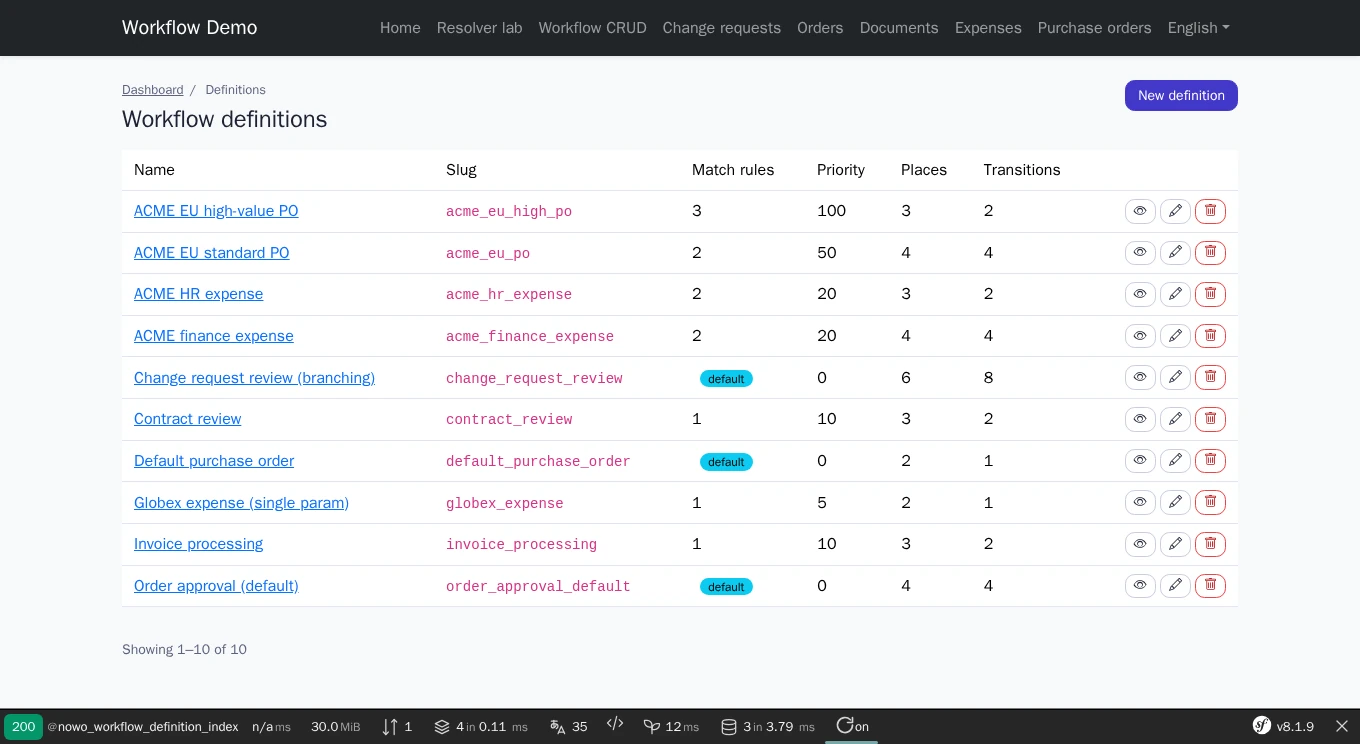
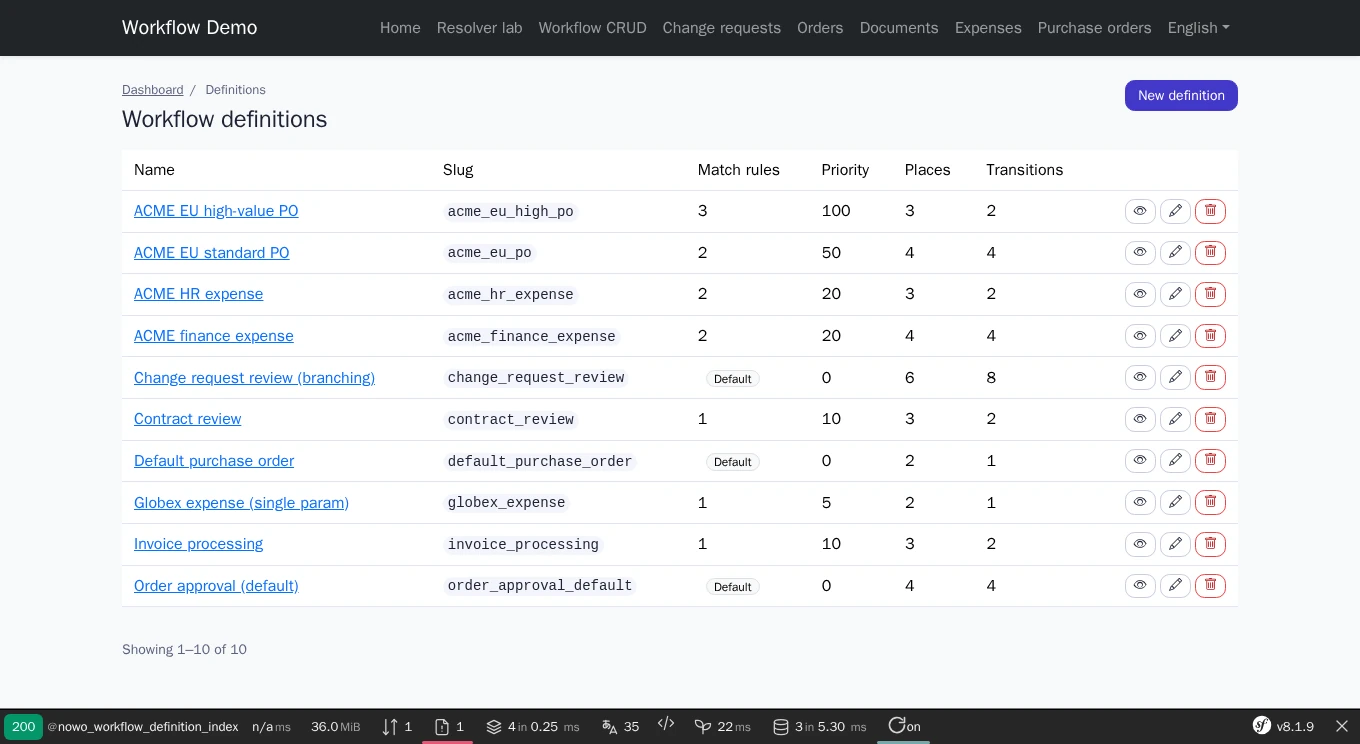
docs: diagram e2e, changelog and re-captured demo screenshots (REQ-DEMO-013)

diff --git a/demo/symfony8/e2e/tests/demo.spec.ts b/demo/symfony8/e2e/tests/demo.spec.ts
@@ -68,6 +68,50 @@ test.describe('workflow admin (UiKit page contract)', () => {
     expect(errors).toEqual([]);
   });
 
+  test('flow diagram: every connector ends at its own target, only true loops are listed', async ({ page }) => {
+    const errors = collectErrors(page);
+    const id = await definitionId(page, 'change_request_review');
+    await page.goto(`/workflow/definitions/${id}`);
+
+    const svg = page.getByTestId('workflow-flow-svg');
+    await expect(svg).toBeVisible();
+    await expect(svg.locator('.nowo-workflow-diagram__edge')).toHaveCount(6);
+
+    // Each connector ends at the left edge, vertical middle, of the place box it names in data-to.
+    const misses = await svg.evaluate((root) => {
+      const out: string[] = [];
+      root.querySelectorAll<SVGPathElement>('.nowo-workflow-diagram__edge').forEach((path) => {
+        const end = path.getPointAtLength(path.getTotalLength());
+        const box = root.querySelector<SVGForeignObjectElement>(`.nowo-workflow-diagram__box[data-place="${path.dataset.to}"]`)!;
+        const x = box.x.baseVal.value;
+        const middle = box.y.baseVal.value + box.height.baseVal.value / 2;
+        if (Math.abs(end.x - x) > 0.5 || Math.abs(end.y - middle) > 0.5) {
+          out.push(`${path.dataset.from} → ${path.dataset.to}`);
+        }
+      });
+
+      return out;
+    });
+    expect(misses).toEqual([]);
+
+    const label = (text: string) => svg.locator('.nowo-workflow-diagram__label-box').filter({ has: page.getByRole('button', { name: text, exact: true }) });
+    await expect(label('Submit for review')).toHaveAttribute('data-to', 'review');
+    await expect(label('Approve')).toHaveAttribute('data-to', 'approved');
+    await expect(label('Request changes')).toHaveAttribute('data-to', 'changes_needed');
+
+    const loops = page.getByTestId('workflow-flow-back-edges').getByRole('button');
+    await expect(loops).toHaveCount(2);
+    await expect(loops).toContainText(['Resubmit', 'Reopen']);
+
+    await label('Approve').getByRole('button').hover();
+    await expect(svg.locator('.nowo-workflow-diagram__edge.is-active')).toHaveAttribute('data-to', 'approved');
+    await label('Approve').getByRole('button').click();
+    await expect(page.locator('dialog[open]')).toHaveAttribute('id', /^workflow-transition-/);
+    await page.keyboard.press('Escape');
+
+    expect(errors).toEqual([]);
+  });
+
   test('places editor: add, validate, remove and save', async ({ page }) => {
     const errors = collectErrors(page);
     const id = await definitionId(page, 'invoice_processing');

diff --git a/docs/CHANGELOG.md b/docs/CHANGELOG.md
@@ -41,6 +41,31 @@ and this project adheres to [Semantic Versioning](https://semver.org/spec/v2.0.0
 
 ## [Unreleased]
 
+### Fixed
+
+- **Flow diagram of branching definitions.** Transition labels and arrows pointed at the wrong places (e.g. "Submit
+  for review" landed on Cancelled), Cancelled was ranked next to Review, and forward edges (review → cancel →
+  cancelled) were listed under "Return / loop transitions". The new `WorkflowGraphLayout` ranks places by the longest
+  path from the initial place, classifies only true back-edges (target ranked at or before the source, found by a
+  depth-first search) as loops, orders each rank by barycentre sweeps, and draws the diagram as an SVG: one curved
+  connector per edge from its source to the middle of its own target place (long edges pass through waypoints), each
+  label on its own connector (moved along it when two labels would collide). Places and labels stay focusable
+  buttons that open the place / transition dialogs; hovering or focusing a label highlights its connector.
+- Demo: e2e covers the diagram geometry (every connector ends at the middle of its own target, only Resubmit and
+  Reopen listed as loops); README screenshots re-captured (REQ-DEMO-013).
+
+### Changed
+
+- **Definitions list.** The match rules column is end-aligned like priority, places and transitions (`Column`
+  `align: 'end'`; the cells keep `nowo-ui-cell--end`); the "Default" badge uses the neutral badge slot
+  (`badge_neutral`) instead of the solid info badge, and its label is capitalised in every locale.
+- Inline identifiers (slug, subject class, place names in the diagram, dialogs and loop list, and the code cells the
+  collection editors build in JS — `data-code-class` on the collection root) use the UiKit `code` slot.
+- `WorkflowGraphPresenter::present()` layout: `columns` are the ranks of the new layout, `bridges[<rank>]` lists the
+  forward edges leaving that rank (also edges spanning several ranks), `backEdges` only true loops; new keys `ranks`
+  (place → rank) and `diagram` (SVG geometry: `width`, `height`, `nodes`, `edges` with `path` and label box; `null`
+  for linear definitions, which keep `sequence`).
+
 ## [1.9.0] - 2026-10-18
 
 Workflow UI on the UiKit 2.1 standard page contract (REQ-UI-003): dashboard, list, show, form and settings scaffolds, UiKit native dialogs, no CDN assets (Tom Select vendored); deprecated `ui.*` keys mapped to `web_ui.*` / `security.*`. See [UPGRADING](UPGRADING.md#to-190).
